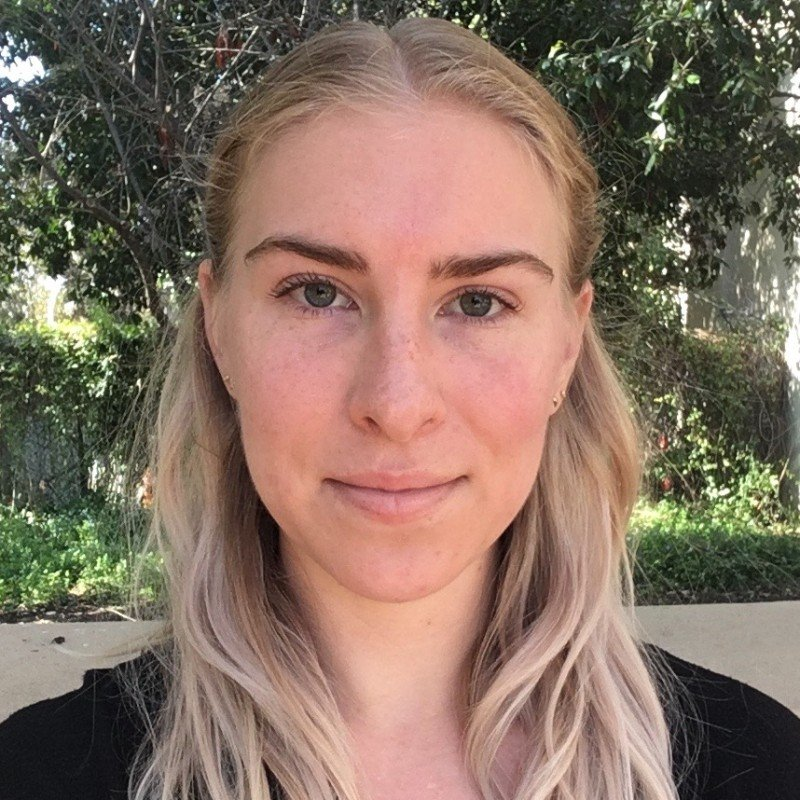
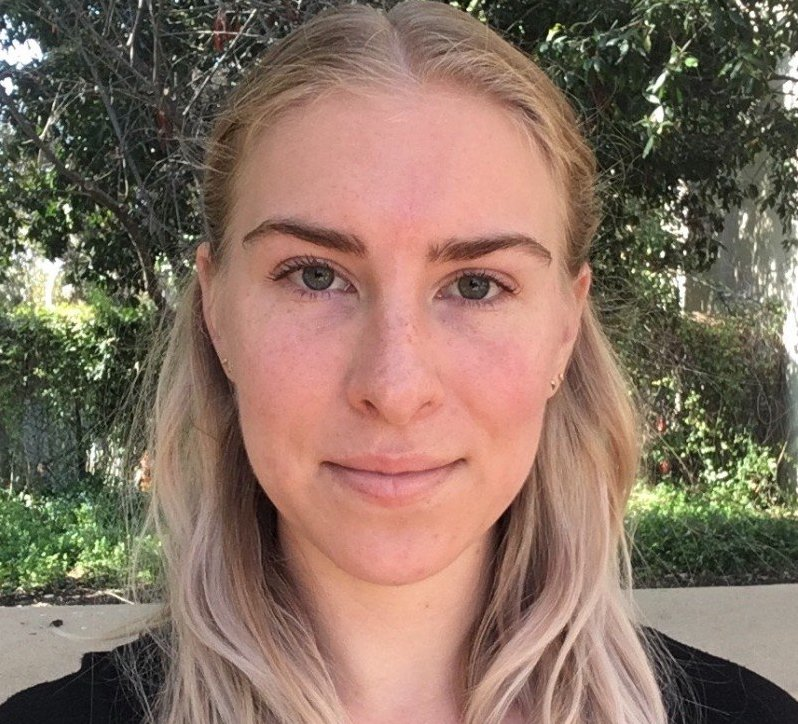
images edited

diff --git a/app/components/team-member.jsx b/app/components/team-member.jsx
@@ -4,11 +4,11 @@ export default function TeamMember({ member }) {
   const [isOpen, setIsOpen] = React.useState(false);
 
   return (
-    <div className="border border-gray-200 rounded p-4">
+    <div className="border border-gray-200 rounded p-4 overflow-hidden">
       <img
         src={member.img}
         alt={member.name}
-        className="h-full w-full object-cover max-h-[400px] mx-auto mb-3 grayscale hover:grayscale-0 transition-all duration-200"
+        className="w-full h-64 object-cover mb-3"
       />
       <h2 className="font-bold text-2xl mb-2">{member.name}</h2>
       <p className="font-medium text-lg mb-2">{member.title}</p>
@@ -16,7 +16,9 @@ export default function TeamMember({ member }) {
         {isOpen ? "Hide Bio" : "Show Bio"}
       </button>
       {isOpen && (
-        <p className="mt-2 text-sm md:text-base lg:text-lg">{member.bio}</p>
+        <p className="mt-2 text-sm md:text-base lg:text-lg overflow-auto">
+          {member.bio}
+        </p>
       )}
     </div>
   );

diff --git a/app/components/our-team.jsx b/app/components/our-team.jsx
@@ -43,7 +43,7 @@ export default function OurTeam() {
   return (
     <div>
       <h1 className="font-bold text-4xl p-4">Our Team</h1>
-      <div className="grid grid-cols-1 md:grid-cols-2 lg:grid-cols-3 gap-4 p-4">
+      <div className="grid grid-cols-1 md:grid-cols-2 lg:grid-cols-3 gap-4 p-6">
         {teamMembers.map((member, index) => (
           <TeamMember key={index} member={member} />
         ))}
